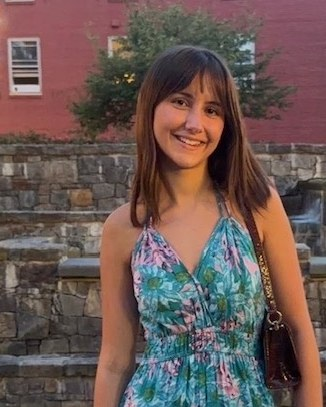
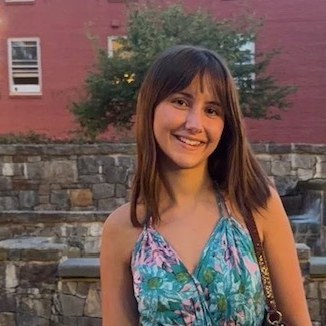
Revert to circle photos, give position titles a pill badge
Circles restored (150x150, border-radius 50%) with the same square
crops from before the portrait experiment. Officer/advisor position
text is now a small rounded pill with a light cobalt tint, matching
the "tag" treatment already used on gallery photos, instead of plain
uppercase text.

diff --git a/assets/css/styles.css b/assets/css/styles.css
@@ -976,8 +976,8 @@ h3 {
 .officer-photo {
   position: relative;
   width: 150px;
-  height: 188px;
-  border-radius: var(--radius);
+  height: 150px;
+  border-radius: 50%;
   margin: 0 auto 18px;
   background: var(--navy);
   color: var(--white);
@@ -1002,7 +1002,7 @@ h3 {
   inset: 0;
   width: 100%;
   height: 100%;
-  border-radius: var(--radius);
+  border-radius: 50%;
   object-fit: cover;
   display: block;
 }
@@ -1012,12 +1012,19 @@ h3 {
   font-size: 1.1rem;
 }
 
+/* A small pill badge instead of plain text — same "tag" treatment
+   used for gallery-tag, just inverted to a light cobalt tint since
+   this sits on a white card rather than over a photo. */
 .officer-position {
+  display: inline-block;
+  background: rgba(34, 106, 221, 0.1);
   color: var(--cobalt);
   font-weight: 600;
-  font-size: 0.82rem;
+  font-size: 0.76rem;
   text-transform: uppercase;
   letter-spacing: 0.06em;
+  padding: 5px 14px;
+  border-radius: 999px;
 }
 
 /* ---------- Competitive events callout ---------- */
